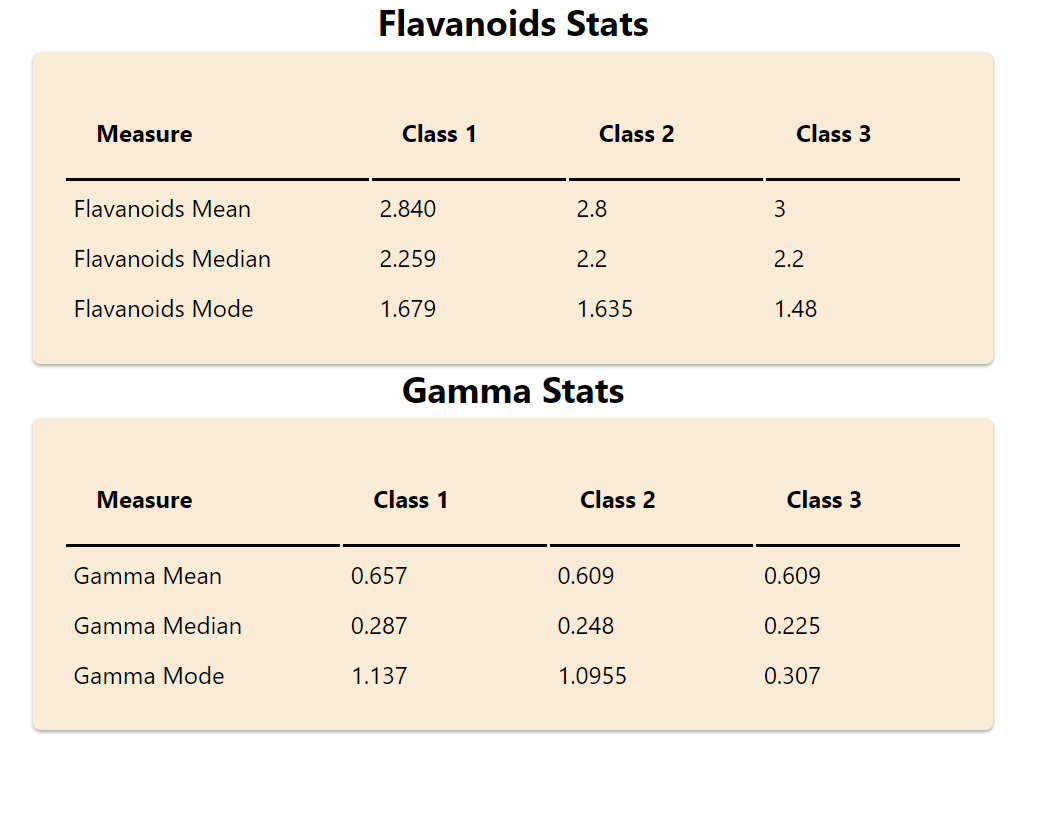
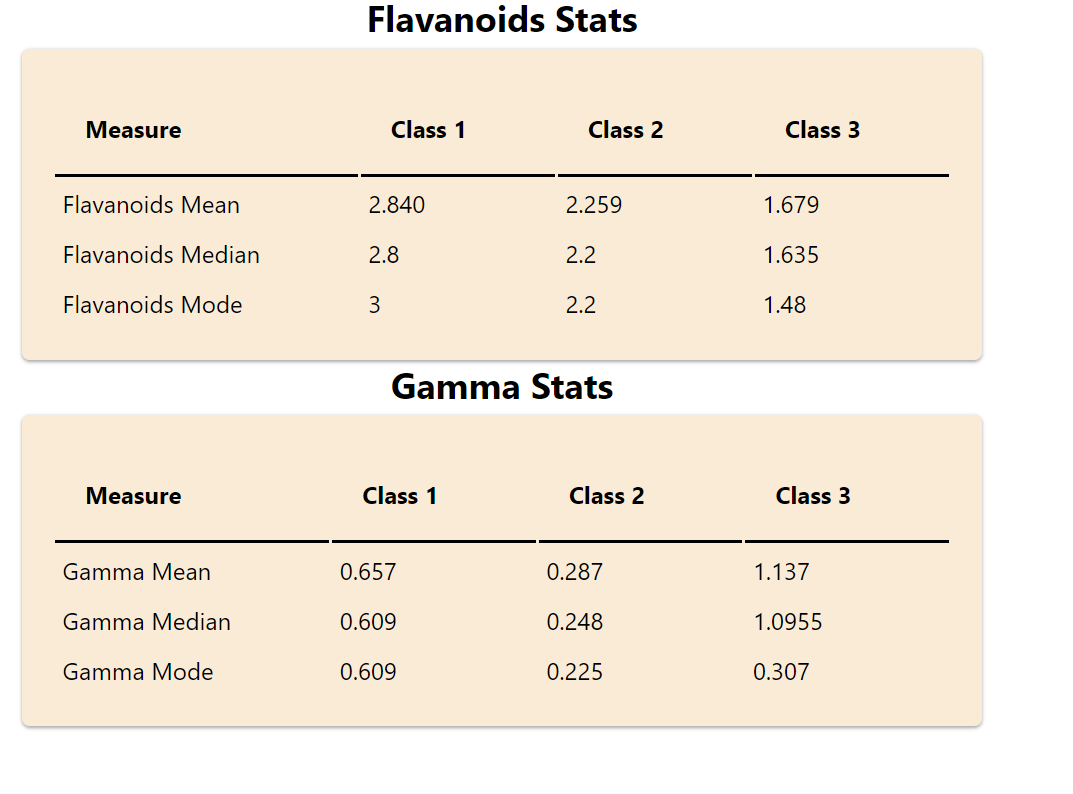
bug fix

diff --git a/src/components/table.component.jsx b/src/components/table.component.jsx
@@ -1,29 +1,50 @@
-import { calculateMeanMedianMode } from "../utils/util";
+import { calculateMeanMedianMode, tableDataFormatter } from "../utils/util";
 
 const TableComponent = ({ flag }) => {
-  const data = calculateMeanMedianMode(flag);
-  const tableData = [`${flag} Mean`, `${flag} Median`, `${flag} Mode`];
+  const { data, tData } = tableDataFormatter(calculateMeanMedianMode(flag));
+  const { means, medians, modes } = tData;
+  console.log(means, medians, modes);
   return (
     <table>
       <thead>
         <tr>
           <th>Measure</th>
-          {Object.keys(data).map((e) => {
-            return <th>{e}</th>;
+          {Object.keys(data).map((e, i) => {
+            return <th key={i}>{e}</th>;
           })}
         </tr>
       </thead>
       <tbody>
-        {Object.keys(data).map((e, i) => {
-          return (
-            <tr>
-              <td>{tableData[i]}</td>
-              <td>{data[e].mean}</td>
-              <td>{data[e].median}</td>
-              <td>{data[e].mode}</td>
-            </tr>
-          );
-        })}
+        <tr>
+          <td>{flag} Mean</td>
+          {means.map((e, i) => {
+            return (
+              <>
+                <td key={i}>{e}</td>
+              </>
+            );
+          })}
+        </tr>
+        <tr>
+          <td>{flag} Median</td>
+          {medians.map((e, i) => {
+            return (
+              <>
+                <td key={i}>{e}</td>
+              </>
+            );
+          })}
+        </tr>
+        <tr>
+          <td>{flag} Mode</td>
+          {modes.map((e, i) => {
+            return (
+              <>
+                <td key={i}>{e}</td>
+              </>
+            );
+          })}
+        </tr>
       </tbody>
     </table>
   );

diff --git a/src/utils/util.js b/src/utils/util.js
@@ -56,9 +56,7 @@ const calculateMode = (array, flag) => {
 const formatData = () => {
   let formattedData = {};
   let classes = extractClasses();
-  console.log(classes)
   classes.forEach((e) => (formattedData[e] = []));
-  console.log(formattedData)
   wineData.forEach((e) => {
     formattedData[`Class ${e.Alcohol}`].push(e);
   });
@@ -78,3 +76,12 @@ const extractClasses = () => {
   return classes;
 };
 
+export const tableDataFormatter = (data) => {
+  let tData = { means: [], medians: [], modes: [] };
+  Object.keys(data).forEach((e) => {
+    tData["means"].push(data[e].mean);
+    tData["medians"].push(data[e].median);
+    tData["modes"].push(data[e].mode);
+  });
+  return { data, tData };
+};
